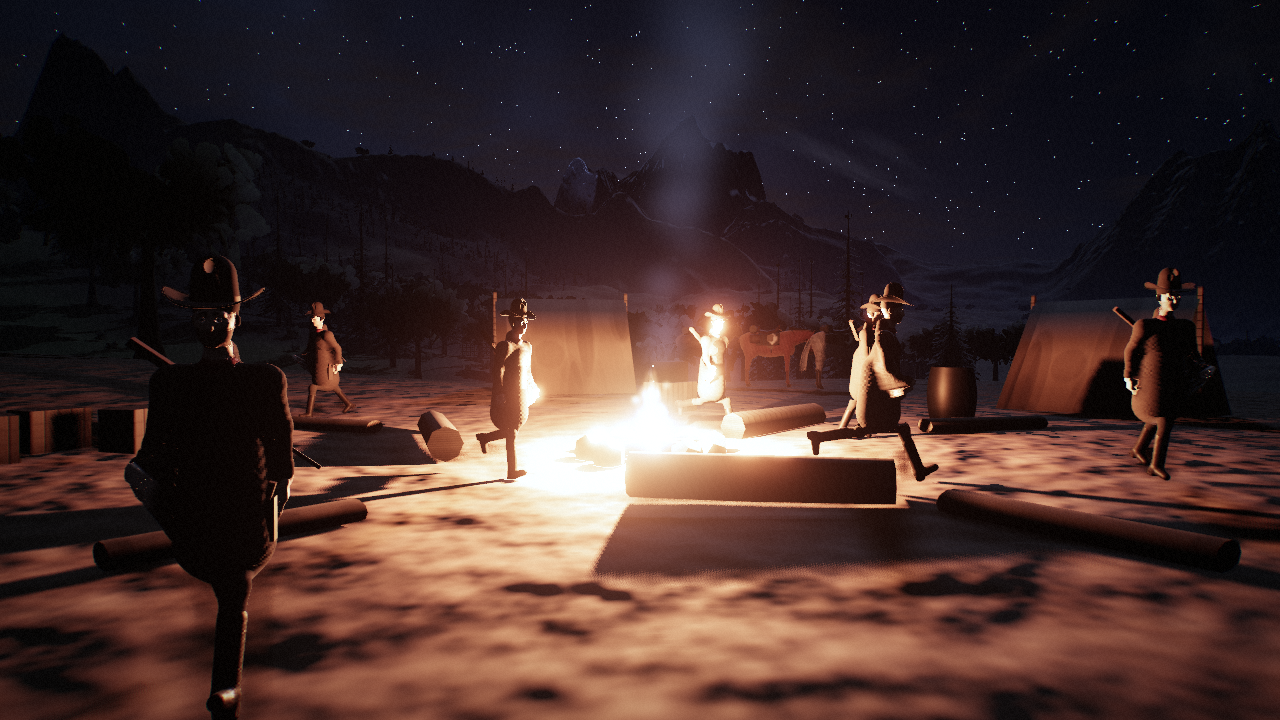
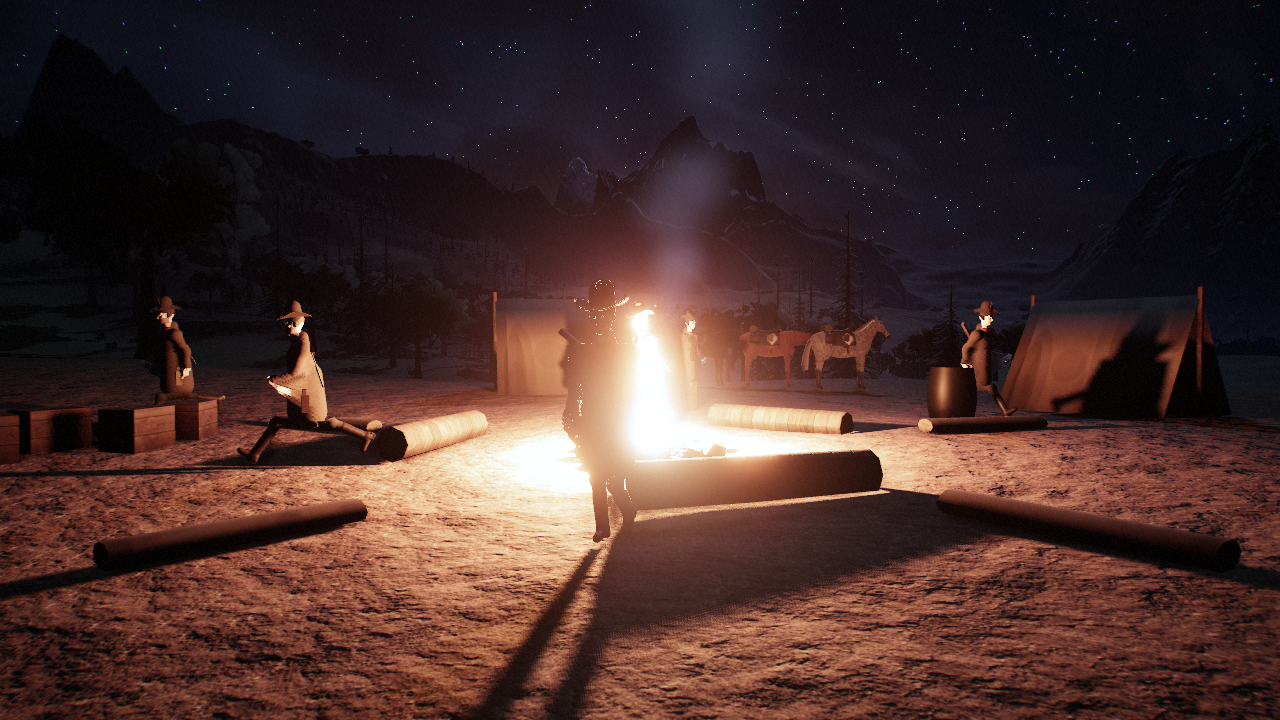
Log gauntlet round 8 and refresh the round captures
Claude-Session: https://claude.ai/code/session_01QWu7ZYdJMjy3WLDxW8bdPM

Changed region(s): [[0.0, 0.2444, 1.0, 1.0], [0.5, 0.1222, 0.5625, 0.2139], [0.0, 0.55, 0.0312, 0.6111]]

diff --git a/frontier/PROGRESS.md b/frontier/PROGRESS.md
@@ -92,7 +92,35 @@ plateaued: since round 3 the critic names the same three gaps every round — ma
 flat material response (no texture-level wear or breakup), and thin ground/vegetation detail. A seating bug the
 camp close-up exposed (outlaws hovering beside the logs) is fixed after capture.
 
-## Where it stands (historical note from round 4 below; still accurate after round 7)
+### Round 8: blind critic 0 / 8 (vista "clearly", the rest landslides)
+The "ultra realistic 4K" pass:
+- **Photographic CC0 surfaces.** Terrain, boulders, town timber, foundations and water now sample ambientCG
+  scans (albedo plus normal maps) with two scales mixed by noise to hide tiling. The scans are grass, dirt,
+  gravel, pebble riverbed, triplanar rock (including a cliff-scale sample for distant faces), snow, planks,
+  weathered wood and stone, plus scanned water normals.
+- **Raymarched cumulus sky.** A 3D Perlin-Worley noise volume drives a cloud slab with sun self-shadowing,
+  a two-lobe phase function and aerial perspective. This replaces the painted 2D clouds.
+- **Grass.** Distant clumps settle to their mean colour, so the "dark lettuce" mottling is gone. The ranch
+  pasture is grazed short, and the clumps are brightened to sit on the ground instead of reading as a dark mat.
+- **`?q=ultra` preset.** Up to 2x pixel ratio, an 8192 shadow map, farther terrain detail, denser grass and
+  sharper reflections.
+
+| piece | margin | biggest gap named by the critic | builder response (after capture) |
+| --- | --- | --- | --- |
+| ranch | landslide | flat tiled lawn, props on a blockout grid | open: terrain undulation, clutter, wear at post bases |
+| vista | clearly | mid-distance forest renders as grey-white speckle | fixed: terrain noise finer than a pixel fades to its mean, and far impostors take the canopy terrain's shading |
+| ride | landslide | mannequin rider: one material, no face, no seat contact | open: needs authored character art |
+| swamp | landslide | flat shadowless light, no humidity | open |
+| gallop | landslide | rocking-horse pose, white blotches on the ground | dust puffs broken up with noise; gait still open |
+| forest | landslide | "broccoli" card canopies, no sky holes | leaf translucency toned to yellow-green; canopy rebuild still open |
+| town | landslide | flat tiling close-up surfaces, grey window quads, polka-dot rust | open (scanned boardwalk landed this round) |
+| camp | landslide | fire is a white blown-out light; outlaw in mid-air | flames kept orange below the clip point; camp shot no longer alerts the gang, so outlaws stay on the logs |
+
+The critic also flagged the test set. The repo only has five RDR2 bar frames, so three bar frames serve two
+pieces each, and three pairs (vista, gallop, camp) don't compare like with like. Better-matched reference
+frames would make future verdicts sharper.
+
+## Where it stands (historical note from round 4 below; still accurate after round 8)
 After four rounds the build has not beaten the bar. Every round closed visible gaps: the critic's notes moved from
 "black screen / floating specks / mannequins in an empty field" to fine-grained material, foliage and character
 detail. Town has stopped being a landslide since round 2. The remaining distance is mostly hand-authored art
